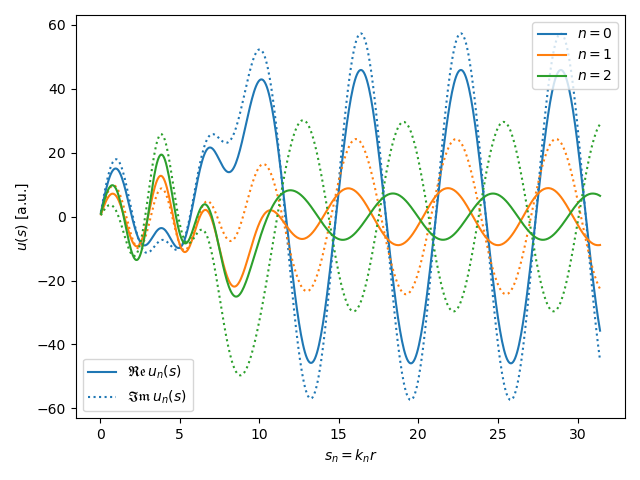
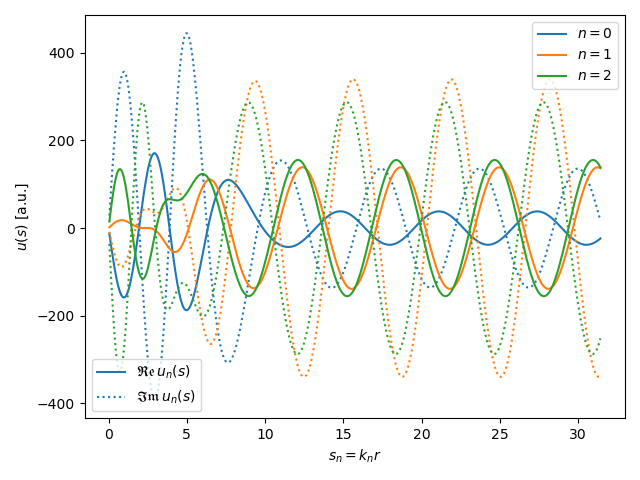
fix coupled channel S-matrix and examplwz

diff --git a/src/jitr/rmatrix_kernel.py b/src/jitr/rmatrix_kernel.py
@@ -239,13 +239,12 @@ def rmsolve_smatrix(
     R = x @ b.reshape(nchannels, nbasis).T / np.outer(a, a)
 
     # Eqn 17 in Descouvemont, 2016
-    Zp = Hp * incoming_weights - R * Hpp[:, np.newaxis] * a[:, np.newaxis]
-    Zm = Hm * incoming_weights - R * Hmp[:, np.newaxis] * a[:, np.newaxis]
+    Zp = np.diag(Hp) - R * Hpp[:, np.newaxis] * a[:, np.newaxis]
+    Zm = np.diag(Hm) - R * Hmp[:, np.newaxis] * a[:, np.newaxis]
 
     # Eqn 16 in Descouvemont, 2016
     S = np.linalg.solve(Zp, Zm)
 
-    # TODO should there be a factor of k/sqrt(v) here?
     uext_prime_boundary = Hmp * incoming_weights - S @ Hpp
 
     return R, S, uext_prime_boundary
@@ -276,23 +275,11 @@ def rmsolve_wavefunction(
     and
     P. Descouvemont and D. Baye 2010 Rep. Prog. Phys. 73 036301
     """
-    (Hp, Hm, Hpp, Hmp) = asymptotics
-
-    # Eqn 15 in Descouvemont, 2016
-    x = np.linalg.solve(A, b).reshape(nchannels, nbasis)
-    R = x @ b.reshape(nchannels, nbasis).T / np.outer(a, a)
-    # TODO how to handle different reduced masses in each channel
-
-    # Eqn 17 in Descouvemont, 2016
-    Zp = Hp * incoming_weights - R * Hpp[:, np.newaxis] * a[:, np.newaxis]
-    Zm = Hm * incoming_weights - R * Hmp[:, np.newaxis] * a[:, np.newaxis]
-
-    # Eqn 16 in Descouvemont, 2016
-    S = np.linalg.solve(Zp, Zm)
-
-    uext_prime_boundary = Hmp * incoming_weights - S @ Hpp
-
     # TODO should we factorize A so we don't have to solve from scratch twice?
+    R, S, uext_prime_boundary = rmsolve_smatrix(
+        A, b, asymptotics, incoming_weights, a, nchannels, nbasis
+    )
+
     # Eqn 3.92 in Descouvemont & Baye, 2010
     b = (b.reshape(nchannels, nbasis) * uext_prime_boundary[:, np.newaxis]).reshape(
         nchannels * nbasis

diff --git a/examples/coupled.py b/examples/coupled.py
@@ -28,11 +28,11 @@ def coupled_channels_example(visualize=False):
     a = 0.5  # Woods-Saxon potential diffuseness
     params = (V, W, R, a)
 
-    nodes_within_radius = 10
+    nodes_within_radius = 5
 
     system = ProjectileTargetSystem(
         reduced_mass=np.array([939.0, 939.0, 939]),
-        channel_radii=np.ones(3) * 5 * (2 * np.pi),
+        channel_radii=np.ones(3) * nodes_within_radius * (2 * np.pi),
         nchannels=3,
         level_energies=np.array([0.0, 12.0, 20.0]),
         l=np.array(
@@ -66,7 +66,7 @@ def coupled_channels_example(visualize=False):
                     args=params_off_diag,
                 )
 
-    ecom = 100
+    ecom = 35
     channels = system.build_channels(ecom)
     solver = LagrangeRMatrixSolver(40, 3, system, ecom=ecom, channel_matrix=channels)
 
@@ -112,12 +112,11 @@ def coupled_channels_example(visualize=False):
 
     # S must be unitary
     assert np.isclose(complex_det(S), 1.0)
-    assert np.allclose(S, S.T)
 
-    s_values = np.linspace(0.05, system.channel_radius, 500)
+    s_values = np.linspace(0.05, system.channel_radii[0], 500)
 
     lines = []
-    for i in range(system.num_channels):
+    for i in range(system.nchannels):
         u_values = u[i](s_values)
         (p1,) = plt.plot(s_values, np.real(u_values), label=r"$n=%d$" % i)
         (p2,) = plt.plot(s_values, np.imag(u_values), ":", color=p1.get_color())
